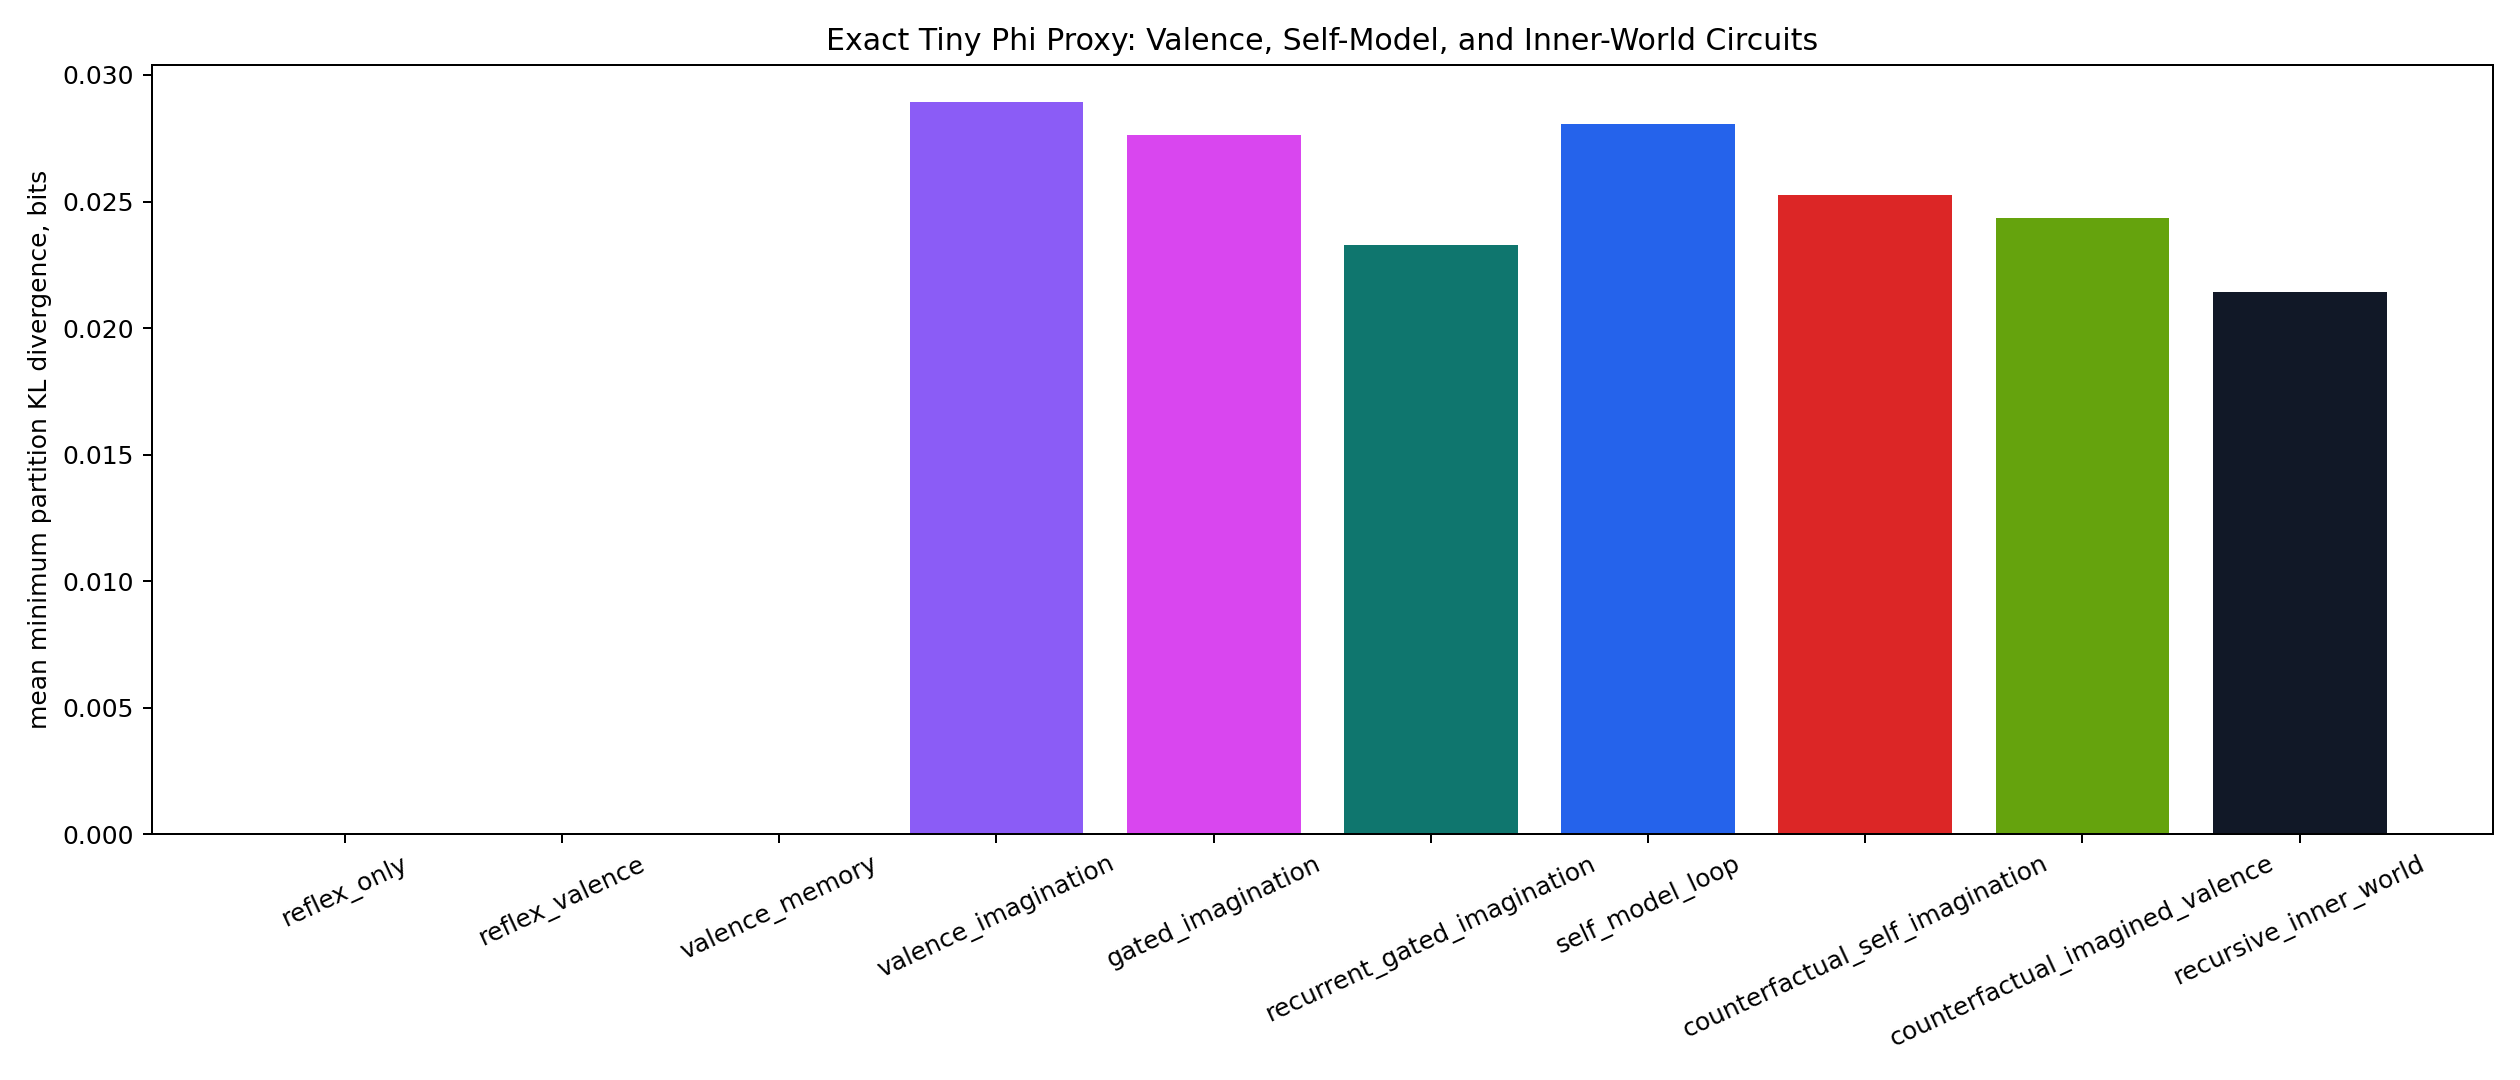
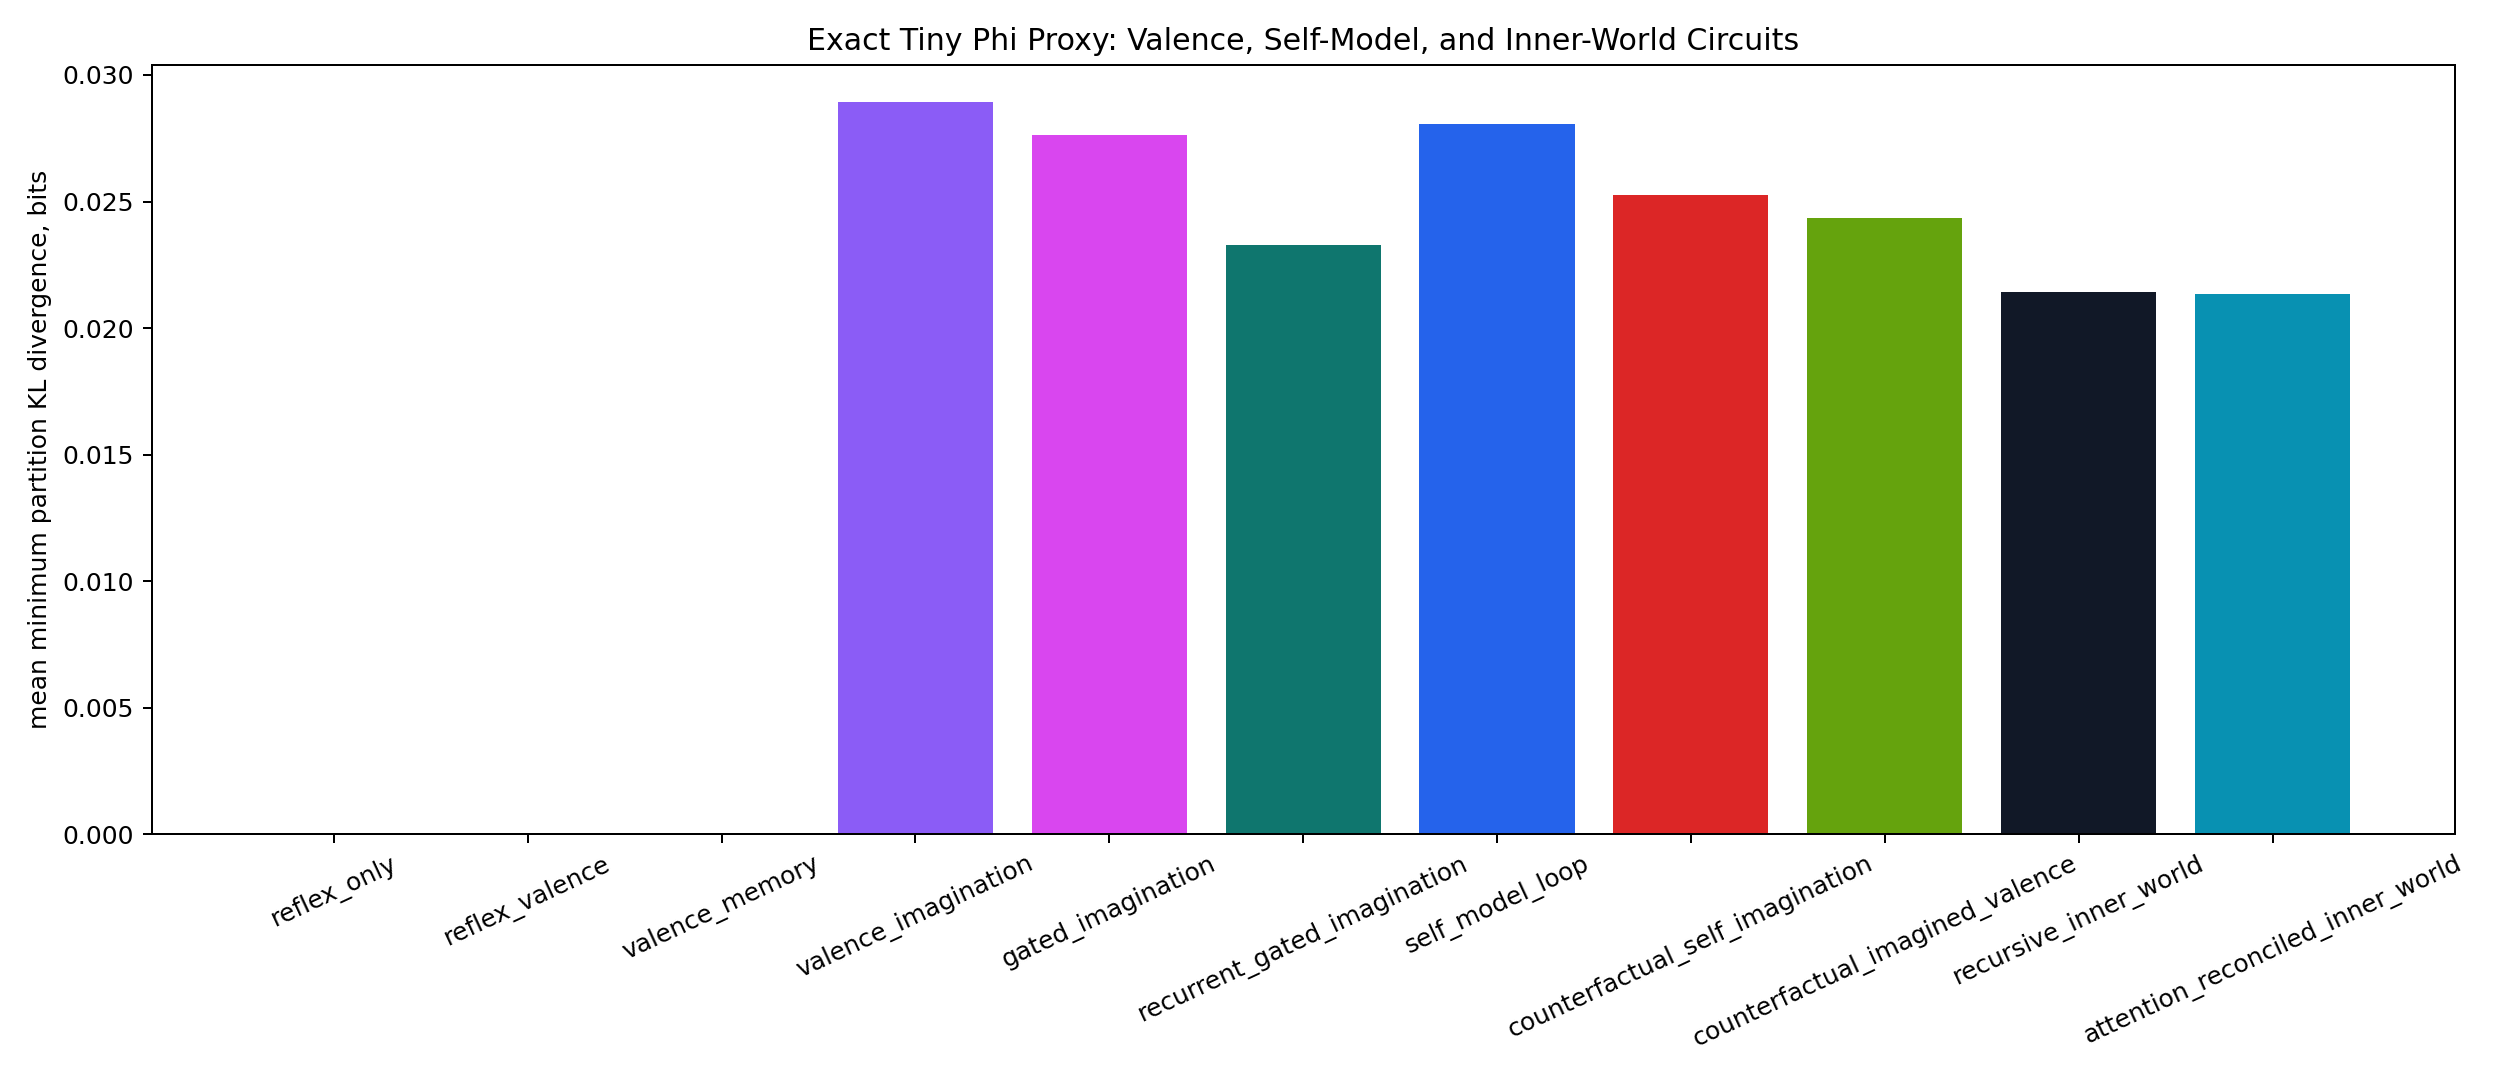
Test attention-reconciled inner world routing

diff --git a/imagination_phi_lab.py b/imagination_phi_lab.py
@@ -233,7 +233,46 @@ def systems():
     add(weights, "memory", "memory", 0.35)
     variants["recursive_inner_world"] = (weights.copy(), bias.copy())
 
+    weights, bias = variants["counterfactual_imagined_valence"]
+    weights = weights.copy()
+    bias = bias.copy()
+    # Tight routing: confidence reconciles real valence, imagined valence, and self-state.
+    add(weights, "confidence", "valence", 1.2)
+    add(weights, "confidence", "imagined_valence", 1.2)
+    add(weights, "confidence", "self", 0.9)
+    add(weights, "confidence", "sense", 0.8)
+    add(weights, "valence", "confidence", 0.9)
+    add(weights, "imagined_valence", "confidence", 0.9)
+    add(weights, "self", "confidence", 0.8)
+    add(weights, "imagination", "confidence", 0.8)
+    # Action is no longer allowed to lean mostly on raw sense; it needs the reconciled loop.
+    weights[NODES.index("action"), NODES.index("sense")] *= 0.25
+    add(weights, "action", "confidence", 1.4)
+    add(weights, "action", "valence", 0.9)
+    add(weights, "action", "imagined_valence", 1.1)
+    add(weights, "action", "self", 0.8)
+    variants["attention_reconciled_inner_world"] = (weights.copy(), bias.copy())
+
     return variants
+
+
+def ablation_damage(weights, bias):
+    rows = []
+    states = all_states(weights.shape[0])
+    baseline = [transition_distribution(state, weights, bias) for state in states]
+    for i, node in enumerate(NODES):
+        damaged = weights.copy()
+        damaged[i, :] = 0.0
+        damaged[:, i] = 0.0
+        damaged_dists = [transition_distribution(state, damaged, bias) for state in states]
+        damage = float(np.mean([kl(p, q) for p, q in zip(baseline, damaged_dists)]))
+        rows.append(
+            {
+                "node": node,
+                "causal_distribution_damage": damage,
+            }
+        )
+    return rows
 
 
 def plot_phi_bars(results, path):
@@ -250,6 +289,7 @@ def plot_phi_bars(results, path):
         "#dc2626",
         "#65a30d",
         "#111827",
+        "#0891b2",
     ]
     fig, ax = plt.subplots(figsize=(14, 6))
     ax.bar(names, vals, color=colors[: len(names)])
@@ -320,6 +360,25 @@ def plot_named_network(weights, title, path):
     plt.close(fig)
 
 
+def plot_ablation_damage(ablation_results, path):
+    labels = list(ablation_results)
+    x = np.arange(len(NODES))
+    width = 0.25
+    fig, ax = plt.subplots(figsize=(13, 6))
+    for offset, label in enumerate(labels):
+        values = [row["causal_distribution_damage"] for row in ablation_results[label]]
+        ax.bar(x + (offset - (len(labels) - 1) / 2) * width, values, width, label=label)
+    ax.axhline(0, color="#222222", lw=1)
+    ax.set_title("Node Ablation Damage: Which Nodes Change The System Most?")
+    ax.set_ylabel("mean KL divergence after node removal")
+    ax.set_xticks(x)
+    ax.set_xticklabels(NODES, rotation=20)
+    ax.legend(fontsize=8)
+    fig.tight_layout()
+    fig.savefig(path, dpi=180)
+    plt.close(fig)
+
+
 def main():
     OUT.mkdir(exist_ok=True)
     results = {}
@@ -327,6 +386,17 @@ def main():
     for name, (weights, bias) in systems().items():
         results[name] = phi_proxy_cached(weights, bias)
         weights_for_plot[name] = weights
+
+    ablation_targets = [
+        "self_model_loop",
+        "counterfactual_imagined_valence",
+        "attention_reconciled_inner_world",
+    ]
+    ablations = {
+        name: ablation_damage(weights_for_plot[name], systems()[name][1])
+        for name in ablation_targets
+        if name in results
+    }
 
     serializable = {
         name: {
@@ -339,6 +409,7 @@ def main():
         }
         for name, result in results.items()
     }
+    serializable["ablation_damage"] = ablations
     serializable["node_order"] = NODES
     serializable["interpretation"] = (
         "If imagination raises the proxy, it suggests richer irreducible causal routing in this toy definition. "
@@ -347,6 +418,7 @@ def main():
     (OUT / "imagination_phi_metrics.json").write_text(json.dumps(serializable, indent=2))
     plot_phi_bars(results, OUT / "imagination_phi_bar_graph.png")
     plot_state_phi(results, OUT / "imagination_phi_by_state.png")
+    plot_ablation_damage(ablations, OUT / "imagination_phi_ablation_damage.png")
     for name, weights in weights_for_plot.items():
         plot_named_network(weights, name.replace("_", " "), OUT / f"{name}_network.png")
 

diff --git a/README.md b/README.md
@@ -444,6 +444,7 @@ self_model_loop:                     0.0281
 counterfactual_self_imagination:     0.0253
 counterfactual_imagined_valence:     0.0244
 recursive_inner_world:               0.0214
+attention_reconciled_inner_world:    0.0213
 ```
 
 This expanded run changed the node vocabulary, so the absolute numbers should
@@ -454,16 +455,36 @@ activate imagination and self-modeling become measurably less separable.
 
 The strongest score in this wiring is still `valence_imagination`. Adding a
 self-model loop stays close, but counterfactual self-imagination, imagined
-valence, and a recursive inner-world loop do not automatically increase the
-proxy. That matters: a richer mind-like vocabulary is not enough by itself. The
-loops have to be routed in a way that makes the whole system harder to split.
+valence, a recursive inner-world loop, and an attention-reconciled inner-world
+loop do not automatically increase the proxy. That matters: a richer mind-like
+vocabulary is not enough by itself. The loops have to be routed in a way that
+makes the whole system harder to split.
+
+The attention-reconciled circuit tested a stricter routing idea:
+
+- confidence receives direct input from real valence, imagined valence, self,
+  and sense
+- action is weakened on raw sense and forced to depend more on confidence, real
+  valence, imagined valence, and self-state
+- imagination and self-state feed back through confidence before action
+
+That did not raise the Phi proxy. It landed essentially tied with the recursive
+inner-world circuit and below the simpler valence-imagination circuit. But the
+node ablation map changed in a useful way. In the attention-reconciled circuit,
+removing `confidence`, `action`, `imagination`, `valence`, or `self` causes much
+larger causal distribution damage than in the looser self-model loop. In other
+words, the gating made those nodes matter more to the system's transition
+dynamics, even though this exact partition proxy still found the circuit easier
+to split than the simpler imagination-valence wiring.
 
 So the careful interpretation is:
 
 > In this toy binary circuit, imagination and self-modeling can create
 > irreducible causal structure, but counterfactual and imagined-valence loops do
 > not automatically raise integration. More inner-world machinery is not
-> automatically more unified mind-like structure.
+> automatically more unified mind-like structure. Tighter attention/confidence
+> routing can make inner-world nodes more causally load-bearing without
+> necessarily increasing this Phi proxy.
 
 ![Imagination Phi proxy bar graph](outputs/imagination_phi_bar_graph.png)
 
@@ -474,6 +495,10 @@ So the careful interpretation is:
 ![Self model loop network](outputs/self_model_loop_network.png)
 
 ![Counterfactual imagined valence network](outputs/counterfactual_imagined_valence_network.png)
+
+![Attention reconciled inner world network](outputs/attention_reconciled_inner_world_network.png)
+
+![Imagination Phi ablation damage](outputs/imagination_phi_ablation_damage.png)
 
 ## Delusional Integration Sweep
 